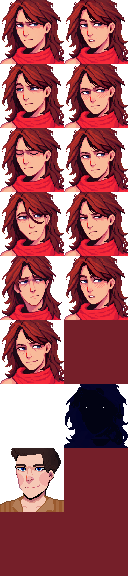
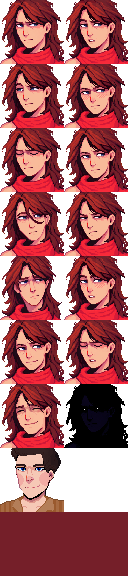
winter zemo

Changed region(s): [[0.0, 0.5312, 1.0, 0.9062]]

diff --git a/README.md b/README.md
@@ -9,22 +9,20 @@
     <td align="center"><b>#2</b><br><img src="[CP]%20Soldat/Assets/Portraits/Zemo/Zemo.png" style="width: 64px; height: 64px; object-fit: none; object-position: 0px -64px;"></td>
     <td align="center"><b>#3</b><br><img src="[CP]%20Soldat/Assets/Portraits/Zemo/Zemo.png" style="width: 64px; height: 64px; object-fit: none; object-position: -64px -64px;"></td>
     <td align="center"><b>#4</b><br><img src="[CP]%20Soldat/Assets/Portraits/Zemo/Zemo.png" style="width: 64px; height: 64px; object-fit: none; object-position: 0px -128px;"></td>
+    <td align="center"><b>#5</b><br><img src="[CP]%20Soldat/Assets/Portraits/Zemo/Zemo.png" style="width: 64px; height: 64px; object-fit: none; object-position: -64px -128px;"></td>
   </tr>
   <tr>
-    <td align="center"><b>#5</b><br><img src="[CP]%20Soldat/Assets/Portraits/Zemo/Zemo.png" style="width: 64px; height: 64px; object-fit: none; object-position: -64px -128px;"></td>
     <td align="center"><b>#6</b><br><img src="[CP]%20Soldat/Assets/Portraits/Zemo/Zemo.png" style="width: 64px; height: 64px; object-fit: none; object-position: 0px -192px;"></td>
     <td align="center"><b>#7</b><br><img src="[CP]%20Soldat/Assets/Portraits/Zemo/Zemo.png" style="width: 64px; height: 64px; object-fit: none; object-position: -64px -192px;"></td>
     <td align="center"><b>#8</b><br><img src="[CP]%20Soldat/Assets/Portraits/Zemo/Zemo.png" style="width: 64px; height: 64px; object-fit: none; object-position: 0px -256px;"></td>
     <td align="center"><b>#9</b><br><img src="[CP]%20Soldat/Assets/Portraits/Zemo/Zemo.png" style="width: 64px; height: 64px; object-fit: none; object-position: -64px -256px;"></td>
-  </tr>
-  <tr>
     <td align="center"><b>#10</b><br><img src="[CP]%20Soldat/Assets/Portraits/Zemo/Zemo.png" style="width: 64px; height: 64px; object-fit: none; object-position: 0px -320px;"></td>
     <td align="center"><b>#11</b><br><img src="[CP]%20Soldat/Assets/Portraits/Zemo/Zemo.png" style="width: 64px; height: 64px; object-fit: none; object-position: -64px -320px;"></td>
+  </tr>
+  <tr>
     <td align="center"><b>#12</b><br><img src="[CP]%20Soldat/Assets/Portraits/Zemo/Zemo.png" style="width: 64px; height: 64px; object-fit: none; object-position: 0px -384px;"></td>
     <td align="center"><b>#13</b><br><img src="[CP]%20Soldat/Assets/Portraits/Zemo/Zemo.png" style="width: 64px; height: 64px; object-fit: none; object-position: -64px -384px;"></td>
     <td align="center"><b>#14</b><br><img src="[CP]%20Soldat/Assets/Portraits/Zemo/Zemo.png" style="width: 64px; height: 64px; object-fit: none; object-position: 0px -448px;"></td>
-  </tr>
-  <tr>
     <td align="center"><b>#15</b><br><img src="[CP]%20Soldat/Assets/Portraits/Zemo/Zemo.png" style="width: 64px; height: 64px; object-fit: none; object-position: -64px -448px;"></td>
     <td align="center"><b>#16</b><br><img src="[CP]%20Soldat/Assets/Portraits/Zemo/Zemo.png" style="width: 64px; height: 64px; object-fit: none; object-position: 0px -512px;"></td>
     <td align="center"><b>#17</b><br><img src="[CP]%20Soldat/Assets/Portraits/Zemo/Zemo.png" style="width: 64px; height: 64px; object-fit: none; object-position: -64px -512px;"></td>
